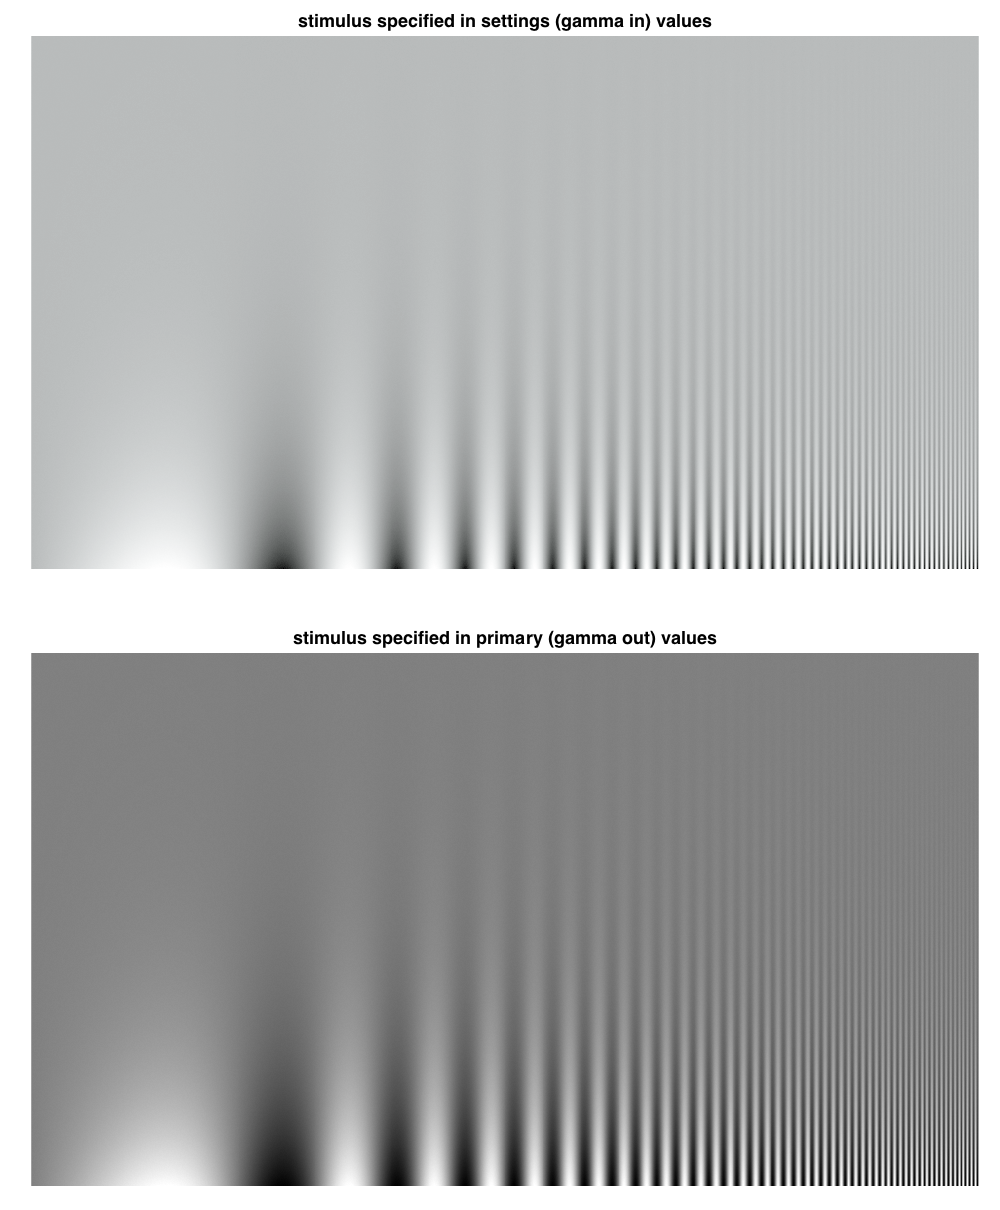
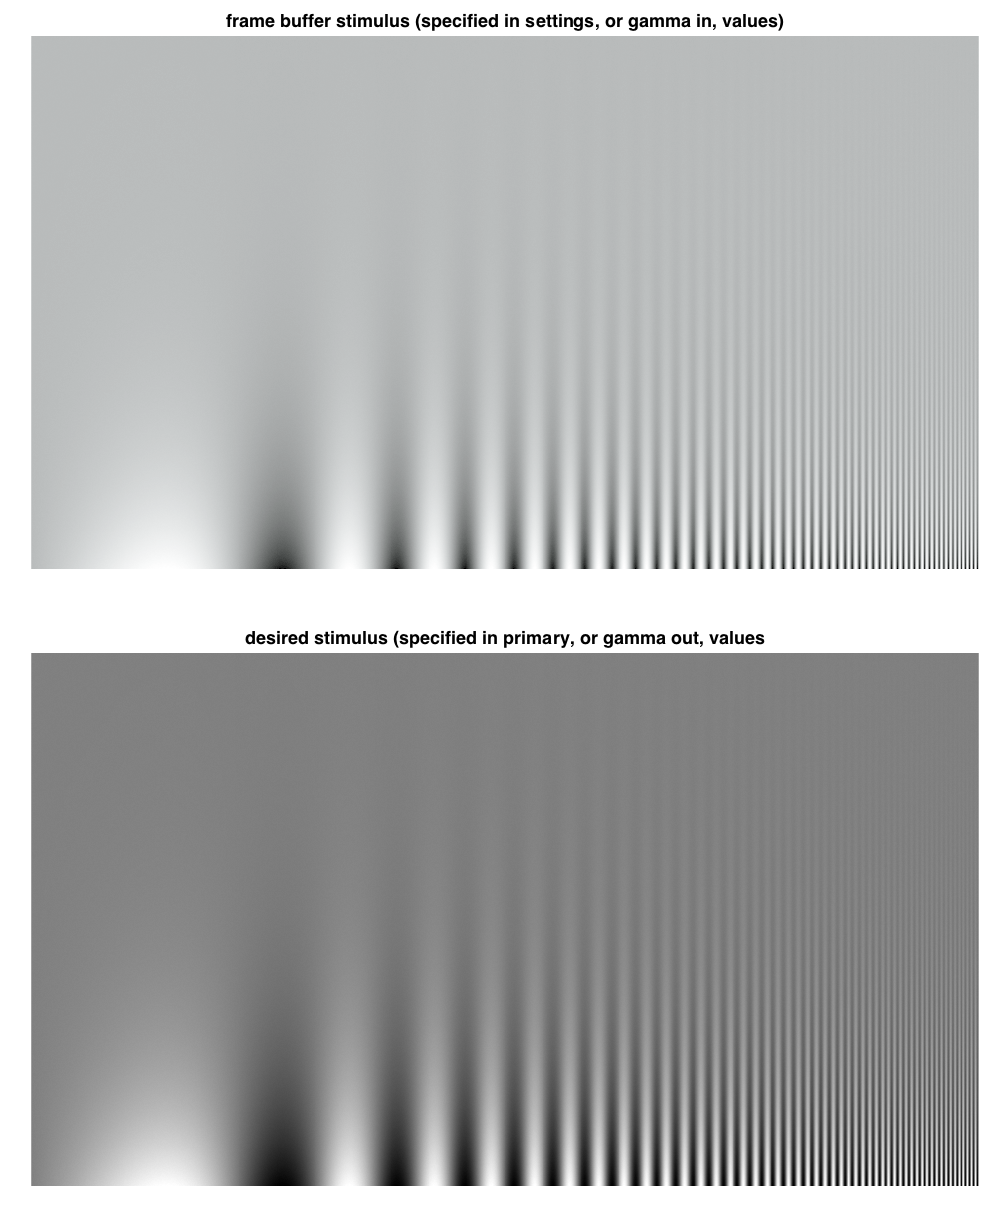
Updated html

Changed region(s): [[0.217, 0.0, 0.775, 0.0306], [0.248, 0.5198, 0.775, 0.5504]]

diff --git a/Tutorials/Calibration/Linearization/LinearizationTutorial.html b/Tutorials/Calibration/Linearization/LinearizationTutorial.html
@@ -66,15 +66,14 @@ table td { padding:7px 5px; text-align:left; vertical-align:top; border:1px soli
 
 
 
-  </style></head><body><div class="content"><h2>Contents</h2><div><ul><li><a href="#3">Initialize state</a></li><li><a href="#4">Load a calibration file (generated by running OOC_calibrateMonitor)</a></li><li><a href="#5">Instantiate a @CalStruct object that will handle controlled access to the calibration data.</a></li><li><a href="#6">Print some calibration information</a></li><li><a href="#7">Retrieve the wavelength sampling that was used to take the measurement</a></li><li><a href="#8">Retrieve the measured spectra of the display's primaries.</a></li><li><a href="#9">Plot the spectra</a></li><li><a href="#10">Retrieve the gamma tables (raw and interpolated)</a></li><li><a href="#11">Plot the gamma tables</a></li><li><a href="#12">Load desired stimulus. This is specified in primary values, i.e. gamma out values</a></li><li><a href="#13">Compute stimulus to be delivered to the frame buffer. This is in settings values, i.e. gamma in</a></li><li><a href="#14">Plot the gamma-in and gamma-out versions of the stimulus</a></li><li><a href="#15">Check that the stimulus is indeed linearized</a></li></ul></div><pre class="codeinput"><span class="keyword">function</span> LinearizationTutorial
+  </style></head><body><div class="content"><h2>Contents</h2><div><ul><li><a href="#3">Initialize state</a></li><li><a href="#4">Load a calibration file (generated by running OOC_calibrateMonitor)</a></li><li><a href="#5">Instantiate a @CalStruct object that will handle controlled access to the calibration data.</a></li><li><a href="#6">Print some calibration information</a></li><li><a href="#7">Retrieve the wavelength sampling that was used to take the measurement</a></li><li><a href="#8">Retrieve the measured spectra of the display's primaries.</a></li><li><a href="#9">Plot the spectra</a></li><li><a href="#10">Retrieve the gamma tables (raw and interpolated)</a></li><li><a href="#11">Plot the gamma tables</a></li><li><a href="#12">Generate the desired stimulus. This is specified in primary values, i.e. gamma out values.</a></li><li><a href="#13">Compute stimulus to be delivered to the frame buffer. This is specified in settings values, i.e. gamma in values.</a></li><li><a href="#14">1. Select a gamma inversion method option. Choose from:</a></li><li><a href="#15">2. Reshape the desiredStimInPrimaryValues matrix [M x N x 3] into a [3 x (MxN)] matrix for efficient primary-to-settings computation</a></li><li><a href="#16">3. Compute stimulus in settings values.</a></li><li><a href="#17">Plot the gamma-in and gamma-out versions of the stimulus</a></li><li><a href="#18">Check that the delivered stimulus will produce an indentical copy of the desired stimulus</a></li><li><a href="#19">1. Invert the stimulus in settings values to get the stimulus in primary values</a></li><li><a href="#20">2. Plot the correspondence between desired and the delivered stimulus</a></li><li><a href="#22">Helper plotting methods</a></li></ul></div><pre class="codeinput"><span class="keyword">function</span> LinearizationTutorial
 </pre><pre class="codeinput"><span class="comment">%</span>
 <span class="comment">% 11/17/2014  npc  Wrote it.</span>
 <span class="comment">%</span>
 </pre><h2>Initialize state<a name="3"></a></h2><pre class="codeinput">    close <span class="string">all</span>;
     <span class="keyword">global</span> figNum
     figNum = 0;
-</pre><h2>Load a calibration file (generated by running OOC_calibrateMonitor)<a name="4"></a></h2><p>Specify the calibration file to load</p><pre class="codeinput">    calFileName = <span class="string">'ViewSonicProbe'</span>;
-    <span class="comment">% Load the most recent entry</span>
+</pre><h2>Load a calibration file (generated by running OOC_calibrateMonitor)<a name="4"></a></h2><pre class="codeinput">    calFileName = <span class="string">'ViewSonicProbe'</span>;
     calStruct= LoadCalFile(calFileName);
 </pre><h2>Instantiate a @CalStruct object that will handle controlled access to the calibration data.<a name="5"></a></h2><pre class="codeinput">    [calStructOBJ, ~] = ObjectToHandleCalOrCalStruct(calStruct);
     <span class="comment">% Clear the imported calStruct. From now on, all access to cal data is via the calStructOBJ.</span>
@@ -102,28 +101,20 @@ table td { padding:7px 5px; text-align:left; vertical-align:top; border:1px soli
     gammaInput    = calStructOBJ.get(<span class="string">'gammaInput'</span>);
     gammaTable    = calStructOBJ.get(<span class="string">'gammaTable'</span>);
 </pre><h2>Plot the gamma tables<a name="11"></a></h2><pre class="codeinput">    PlotGammaTables(rawGammaInput, rawGammaTable, gammaInput, gammaTable);
-</pre><img vspace="5" hspace="5" src="LinearizationTutorial_02.png" alt=""> <h2>Load desired stimulus. This is specified in primary values, i.e. gamma out values<a name="12"></a></h2><pre class="codeinput">    desiredStimInPrimaryValues = MakeContrastSensitivityStimulus;
-</pre><img vspace="5" hspace="5" src="LinearizationTutorial_03.png" alt=""> <h2>Compute stimulus to be delivered to the frame buffer. This is in settings values, i.e. gamma in<a name="13"></a></h2><p>1. Select a gamma inversion method option. Choose from:</p><div><ul><li>gammaMode = 0 - search table using linear interpolation via interp1.</li><li>gammaMode = 1 - inverse table lookup.  Fast but less accurate.</li><li>gammaMode = 2 - exhaustive search</li><li>If gammaMode == 1, then you may specify the precision of the inverse table.  The default is 1000 levels.</li></ul></div><pre class="codeinput">    gammaInversionMethod = 0;
+</pre><img vspace="5" hspace="5" src="LinearizationTutorial_02.png" alt=""> <h2>Generate the desired stimulus. This is specified in primary values, i.e. gamma out values.<a name="12"></a></h2><pre class="codeinput">    desiredStimInPrimaryValues = MakeContrastSensitivityStimulus;
+</pre><img vspace="5" hspace="5" src="LinearizationTutorial_03.png" alt=""> <h2>Compute stimulus to be delivered to the frame buffer. This is specified in settings values, i.e. gamma in values.<a name="13"></a></h2><h2>1. Select a gamma inversion method option. Choose from:<a name="14"></a></h2><div><ul><li>gammaMode = 0 - search table using linear interpolation via interp1.</li><li>gammaMode = 1 - inverse table lookup.  Fast but less accurate.</li><li>gammaMode = 2 - exhaustive search</li><li>If gammaMode == 1, then you may specify the precision of the inverse table.  The default is 1000 levels.</li></ul></div><pre class="codeinput">    gammaInversionMethod = 0;
     SetGammaMethod(calStructOBJ, gammaInversionMethod);
+</pre><h2>2. Reshape the desiredStimInPrimaryValues matrix [M x N x 3] into a [3 x (MxN)] matrix for efficient primary-to-settings computation<a name="15"></a></h2><pre class="codeinput">    [calFormatDesiredStimInPrimaryValues,nX,nY] = ImageToCalFormat(desiredStimInPrimaryValues);
+</pre><h2>3. Compute stimulus in settings values.<a name="16"></a></h2><pre class="codeinput">    calFormatDesiredStimInSettingsValues = PrimaryToSettings(calStructOBJ, calFormatDesiredStimInPrimaryValues);
 
-    <span class="comment">% 2. Reshape stimInPrimaries matrix (MxNx3) into a [3 x (MxN)] matrix for efficient computation</span>
-    [calFormatDesiredStimInPrimaryValues,nX,nY] = ImageToCalFormat(desiredStimInPrimaryValues);
-
-    <span class="comment">% 3. Compute stimulus in settings.</span>
-    calFormatDesiredStimInSettingsValues = PrimaryToSettings(calStructOBJ, calFormatDesiredStimInPrimaryValues);
-
-    <span class="comment">% Reshape back to image coordinates, i.e., MxNx3. This is the stimulus that</span>
+    <span class="comment">% Reshape back to image coordinates, i.e., [ M x N x 3]. This is the stimulus that</span>
     <span class="comment">% should be delivered to the frame buffer for display.</span>
     frameBufferStim = CalFormatToImage(calFormatDesiredStimInSettingsValues,nX,nY);
-</pre><h2>Plot the gamma-in and gamma-out versions of the stimulus<a name="14"></a></h2><pre class="codeinput">    PlotStimuli(frameBufferStim, desiredStimInPrimaryValues);
-</pre><img vspace="5" hspace="5" src="LinearizationTutorial_04.png" alt=""> <h2>Check that the stimulus is indeed linearized<a name="15"></a></h2><p>Invert the stimulus in settings values to get the stimulus in primary values</p><pre class="codeinput">    calFormatDesiredStimInPrimaryValues2 = SettingsToPrimary(calStructOBJ,calFormatDesiredStimInSettingsValues);
-
-    <span class="comment">% Plot the desired vs the inverted stimulus</span>
-    PlotCorrespondence(calFormatDesiredStimInPrimaryValues, calFormatDesiredStimInPrimaryValues2);
+</pre><h2>Plot the gamma-in and gamma-out versions of the stimulus<a name="17"></a></h2><pre class="codeinput">    PlotStimuli(frameBufferStim, desiredStimInPrimaryValues);
+</pre><img vspace="5" hspace="5" src="LinearizationTutorial_04.png" alt=""> <h2>Check that the delivered stimulus will produce an indentical copy of the desired stimulus<a name="18"></a></h2><h2>1. Invert the stimulus in settings values to get the stimulus in primary values<a name="19"></a></h2><pre class="codeinput">    calFormatDeliveredStimInPrimaryValues = SettingsToPrimary(calStructOBJ,calFormatDesiredStimInSettingsValues);
+</pre><h2>2. Plot the correspondence between desired and the delivered stimulus<a name="20"></a></h2><pre class="codeinput">    PlotCorrespondence(calFormatDesiredStimInPrimaryValues, calFormatDeliveredStimInPrimaryValues);
 </pre><img vspace="5" hspace="5" src="LinearizationTutorial_05.png" alt=""> <pre class="codeinput"><span class="keyword">end</span>
-
-
-<span class="keyword">function</span> PlotCorrespondence(desiredStim, deliveredStim)
+</pre><h2>Helper plotting methods<a name="22"></a></h2><pre class="codeinput"><span class="keyword">function</span> PlotCorrespondence(desiredStim, deliveredStim)
     <span class="keyword">global</span> figNum
     figNum = figNum + 1;
 
@@ -161,8 +152,8 @@ table td { padding:7px 5px; text-align:left; vertical-align:top; border:1px soli
         box <span class="string">on</span>; grid <span class="string">on</span>;
 
         <span class="comment">% set plot labels</span>
-        xlabel(<span class="string">'desired stimulus'</span>);
-        ylabel(<span class="string">'delivered stimulus'</span>);
+        xlabel(<span class="string">'desired stimulus (primary values)'</span>);
+        ylabel(sprintf(<span class="string">'delivered stimulus\n(primary values)'</span>));
 
         <span class="comment">% set titles</span>
         title(titles{primaryIndex});
@@ -172,6 +163,7 @@ table td { padding:7px 5px; text-align:left; vertical-align:top; border:1px soli
     NicePlot.setFontSizes(hFig, <span class="string">'FontSize'</span>, 12);
 
 <span class="keyword">end</span>
+
 
 
 <span class="keyword">function</span> PlotStimuli(stimInSettings, stimInPrimaries)
@@ -194,12 +186,12 @@ table td { padding:7px 5px; text-align:left; vertical-align:top; border:1px soli
     <span class="comment">% generate subplot with stim in settings</span>
     subplot(<span class="string">'Position'</span>, subplotPosVectors(1,1).v);
     imshow(stimInSettings);
-    title(<span class="string">'stimulus specified in settings (gamma in) values'</span>);
+    title(<span class="string">'frame buffer stimulus (specified in settings, or gamma in, values)'</span>);
 
     <span class="comment">% generate subplot with stim in primaries</span>
     subplot(<span class="string">'Position'</span>, subplotPosVectors(2,1).v);
     imshow(stimInPrimaries)
-    title(<span class="string">'stimulus specified in primary (gamma out) values'</span>);
+    title(<span class="string">'desired stimulus (specified in primary, or gamma out, values'</span>);
 
     <span class="comment">% Set fonts for all axes, legends, and titles</span>
     NicePlot.setFontSizes(hFig, <span class="string">'FontSize'</span>, 12);
@@ -235,7 +227,7 @@ table td { padding:7px 5px; text-align:left; vertical-align:top; border:1px soli
     titles = {<span class="string">'red primary'</span>, <span class="string">'green primary'</span>, <span class="string">'blue primary'</span>};
 
     <span class="comment">% Specify no legends</span>
-    legends = {<span class="string">'measured gamma'</span>, <span class="string">'interpolated gamma'</span>};
+    legends = {<span class="string">'raw gamma'</span>, <span class="string">'interpolated gamma'</span>};
 
     hFig = figure(figNum);
     set(hFig, <span class="string">'Position'</span>, [100 100 1000 275]);
@@ -409,7 +401,7 @@ table td { padding:7px 5px; text-align:left; vertical-align:top; border:1px soli
         <span class="keyword">else</span>
             gain = 200;
         <span class="keyword">end</span>
-        <span class="keyword">for</span> row = [60 120 240 480 960]
+        <span class="keyword">for</span> row = [60 120 240 480 720 960]
             slice = -(CSF(row,1:colsNum)-0.5);
             <span class="keyword">if</span> (displayNormalizedSlices)
                 slice = slice/max(abs(slice(:)));
@@ -446,9 +438,7 @@ function LinearizationTutorial
     figNum = 0;
 
     %% Load a calibration file (generated by running OOC_calibrateMonitor)
-    % Specify the calibration file to load
     calFileName = 'ViewSonicProbe';
-    % Load the most recent entry
     calStruct= LoadCalFile(calFileName);
 
     %% Instantiate a @CalStruct object that will handle controlled access to the calibration data.
@@ -479,12 +469,12 @@ function LinearizationTutorial
     PlotGammaTables(rawGammaInput, rawGammaTable, gammaInput, gammaTable);
 
 
-    %% Load desired stimulus. This is specified in primary values, i.e. gamma out values
+    %% Generate the desired stimulus. This is specified in primary values, i.e. gamma out values.
     desiredStimInPrimaryValues = MakeContrastSensitivityStimulus;
 
 
-    %% Compute stimulus to be delivered to the frame buffer. This is in settings values, i.e. gamma in
-    % 1. Select a gamma inversion method option. Choose from:
+    %% Compute stimulus to be delivered to the frame buffer. This is specified in settings values, i.e. gamma in values.
+    %%% 1. Select a gamma inversion method option. Choose from:
     %
     % * gammaMode = 0 - search table using linear interpolation via interp1.
     % * gammaMode = 1 - inverse table lookup.  Fast but less accurate.
@@ -494,27 +484,29 @@ function LinearizationTutorial
     gammaInversionMethod = 0;
     SetGammaMethod(calStructOBJ, gammaInversionMethod);
 
-    % 2. Reshape stimInPrimaries matrix (MxNx3) into a [3 x (MxN)] matrix for efficient computation
+    %%% 2. Reshape the desiredStimInPrimaryValues matrix [M x N x 3] into a [3 x (MxN)] matrix for efficient primary-to-settings computation
     [calFormatDesiredStimInPrimaryValues,nX,nY] = ImageToCalFormat(desiredStimInPrimaryValues);
 
-    % 3. Compute stimulus in settings. 
+    %%% 3. Compute stimulus in settings values. 
     calFormatDesiredStimInSettingsValues = PrimaryToSettings(calStructOBJ, calFormatDesiredStimInPrimaryValues);
 
-    % Reshape back to image coordinates, i.e., MxNx3. This is the stimulus that
+    % Reshape back to image coordinates, i.e., [ M x N x 3]. This is the stimulus that
     % should be delivered to the frame buffer for display.
     frameBufferStim = CalFormatToImage(calFormatDesiredStimInSettingsValues,nX,nY);
 
     %% Plot the gamma-in and gamma-out versions of the stimulus
     PlotStimuli(frameBufferStim, desiredStimInPrimaryValues);
 
-    %% Check that the stimulus is indeed linearized
-    % Invert the stimulus in settings values to get the stimulus in primary values
-    calFormatDesiredStimInPrimaryValues2 = SettingsToPrimary(calStructOBJ,calFormatDesiredStimInSettingsValues);
+    %% Check that the delivered stimulus will produce an indentical copy of the desired stimulus
+    %%% 1. Invert the stimulus in settings values to get the stimulus in primary values
+    calFormatDeliveredStimInPrimaryValues = SettingsToPrimary(calStructOBJ,calFormatDesiredStimInSettingsValues);
 
-    % Plot the desired vs the inverted stimulus
-    PlotCorrespondence(calFormatDesiredStimInPrimaryValues, calFormatDesiredStimInPrimaryValues2);
+    %%% 2. Plot the correspondence between desired and the delivered stimulus
+    PlotCorrespondence(calFormatDesiredStimInPrimaryValues, calFormatDeliveredStimInPrimaryValues);
 end
 
+
+%% Helper plotting methods
 
 function PlotCorrespondence(desiredStim, deliveredStim)
     global figNum
@@ -554,8 +546,8 @@ function PlotCorrespondence(desiredStim, deliveredStim)
         box on; grid on;
         
         % set plot labels
-        xlabel('desired stimulus'); 
-        ylabel('delivered stimulus');
+        xlabel('desired stimulus (primary values)'); 
+        ylabel(sprintf('delivered stimulus\n(primary values)'));
 
         % set titles
         title(titles{primaryIndex});
@@ -565,6 +557,7 @@ function PlotCorrespondence(desiredStim, deliveredStim)
     NicePlot.setFontSizes(hFig, 'FontSize', 12); 
 
 end
+
 
 
 function PlotStimuli(stimInSettings, stimInPrimaries)
@@ -587,12 +580,12 @@ function PlotStimuli(stimInSettings, stimInPrimaries)
     % generate subplot with stim in settings
     subplot('Position', subplotPosVectors(1,1).v);
     imshow(stimInSettings);
-    title('stimulus specified in settings (gamma in) values');
+    title('frame buffer stimulus (specified in settings, or gamma in, values)');
     
     % generate subplot with stim in primaries
     subplot('Position', subplotPosVectors(2,1).v);
     imshow(stimInPrimaries)
-    title('stimulus specified in primary (gamma out) values');
+    title('desired stimulus (specified in primary, or gamma out, values');
     
     % Set fonts for all axes, legends, and titles
     NicePlot.setFontSizes(hFig, 'FontSize', 12);   
@@ -628,7 +621,7 @@ function PlotGammaTables(rawGammaInput, rawGammaTable, gammaInput, gammaTable)
     titles = {'red primary', 'green primary', 'blue primary'};
     
     % Specify no legends
-    legends = {'measured gamma', 'interpolated gamma'};
+    legends = {'raw gamma', 'interpolated gamma'};
     
     hFig = figure(figNum);
     set(hFig, 'Position', [100 100 1000 275]);
@@ -802,7 +795,7 @@ function CSF = MakeContrastSensitivityStimulus
         else
             gain = 200;
         end
-        for row = [60 120 240 480 960]
+        for row = [60 120 240 480 720 960]
             slice = -(CSF(row,1:colsNum)-0.5);
             if (displayNormalizedSlices)
                 slice = slice/max(abs(slice(:)));
